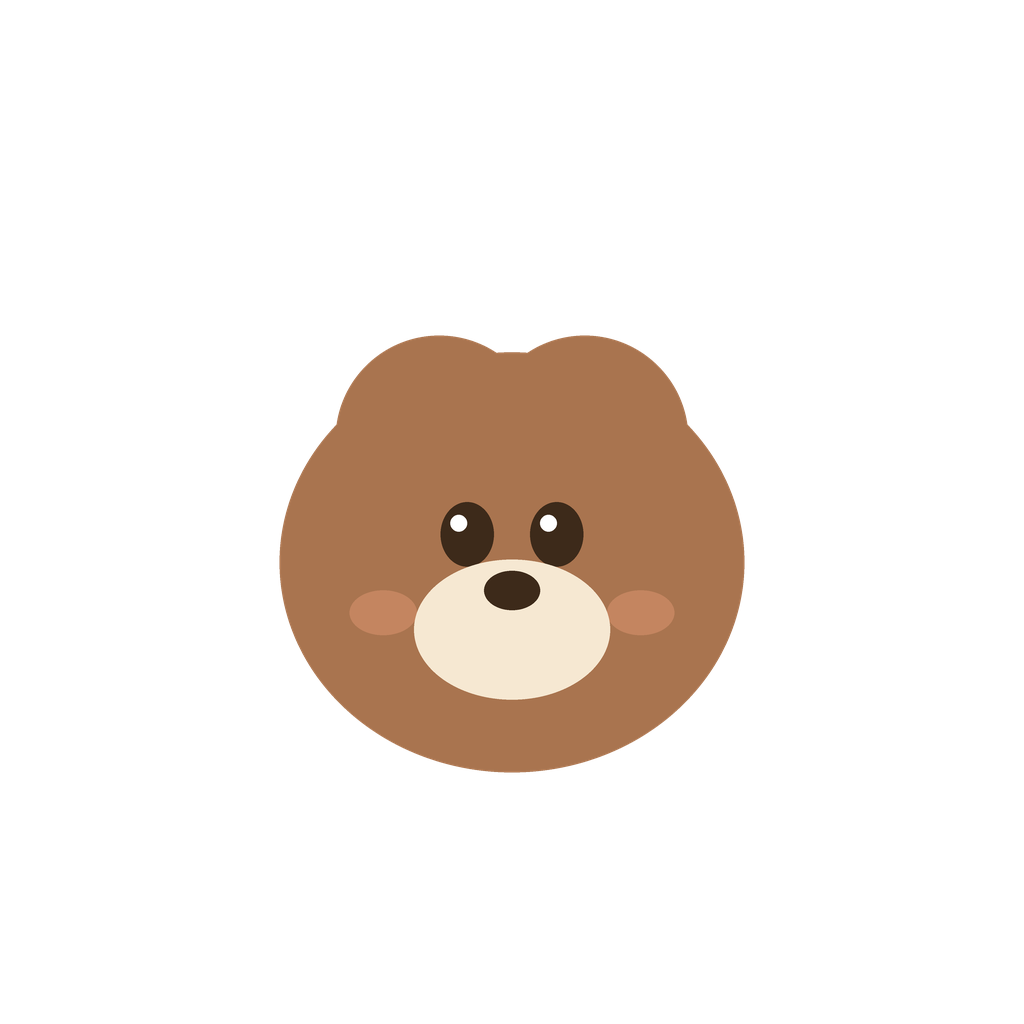
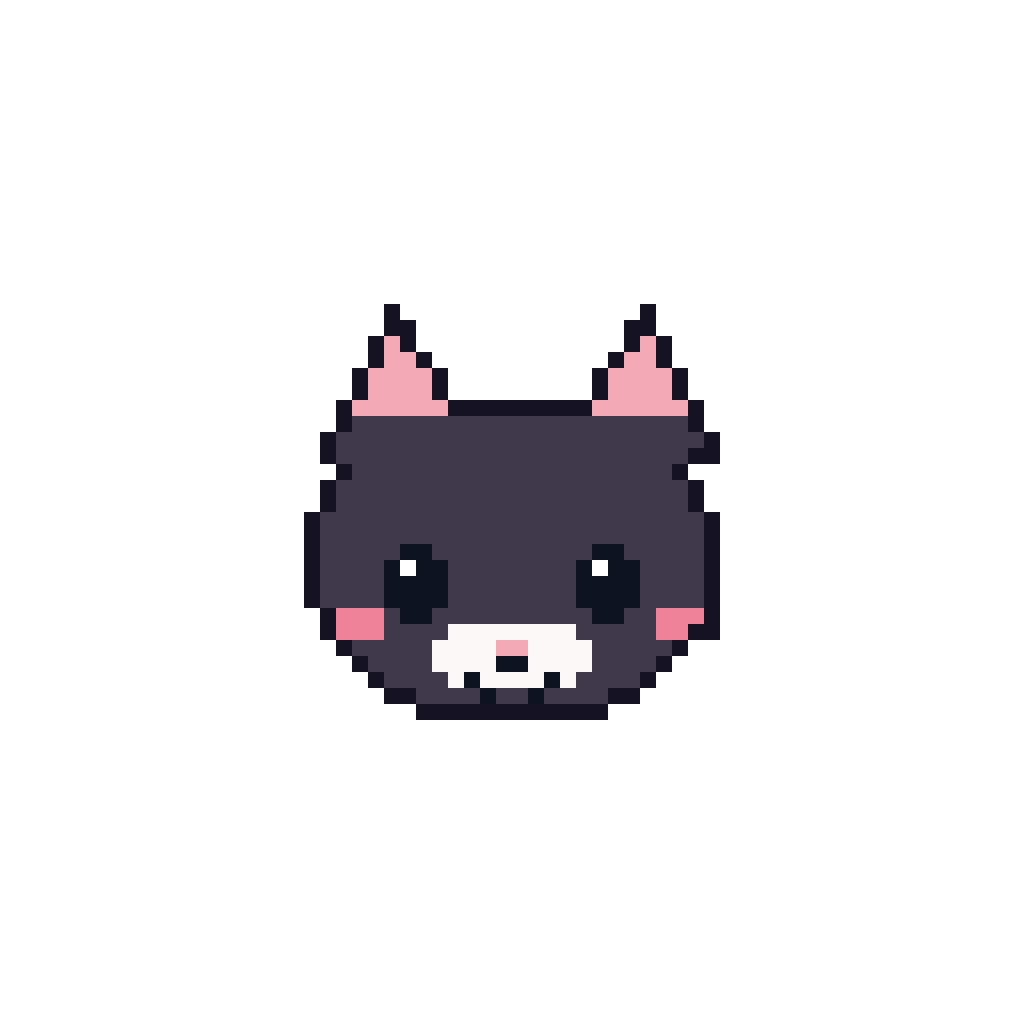
brand: el icono de la app y el splash dejan de ser el oso
Frank ve: el icono en la pantalla de inicio del móvil y la pantalla de arranque
son ya la gata. Hasta ahora seguían siendo el oso pardo, así que quien instalaba
la app veía un oso antes de abrirla y una gata al entrar.

Es un fallo mío de las entregas anteriores: dije "el oso desaparece" cuando lo
había sustituido en las PANTALLAS, pero assets/icon.png, adaptive-icon.png y
splash.png son PNG y ahí seguía. La migración de la mascota no estaba completa.

Los tres se generan ahora desde la misma rejilla de píxeles que usa la app
(scripts/build-brand-assets.js, npm run build:brand). Si mañana cambia el
sprite, se vuelve a correr y los tres salen iguales: nadie tiene que redibujar
ni acordarse de exportar a mano. Comprobado que es reproducible.

El lado del píxel es entero en los tres (20, 16 y 12 px) en vez de "que ocupe
el 62 %": 1024/32 y 1242/32 caen en fracción, y con un lado fraccionario el
antialias parte las filas del dibujo.

El icono adaptativo de Android va a 512 px dentro del lienzo de 1024 porque el
sistema recorta a círculo o squircle y el 66 % central es lo único seguro; a
tamaño completo el recorte le comía las orejas.

PENDIENTE Y NO LO PUEDO HACER YO: el icono de la FICHA de Play Console se sube
aparte y no viaja en el APK. Mientras no se cambie allí, la ficha de la tienda
seguirá enseñando el oso.

Claude-Session: https://claude.ai/code/session_01FthPU8Wp2kPNFVmDMNYEBd

Changed region(s): [[0.25, 0.2812, 0.75, 0.7812]]

diff --git a/scripts/build-brand-assets.js b/scripts/build-brand-assets.js
@@ -1,0 +1,108 @@
+// ============================================================================
+// Valeria+ · Genera icono, icono adaptativo y splash desde la rejilla de Lúa
+//
+// Los tres PNG de marca salen de la MISMA rejilla que usa la app
+// (src/ValeriaCatPixel.tsx). Si mañana cambia el sprite de la mascota se vuelve
+// a correr esto y los tres quedan iguales; nadie tiene que redibujar nada ni
+// acordarse de exportar a mano.
+//
+//   OUT_DIR=assets CHROMIUM_PATH=/ruta/al/chrome node scripts/build-brand-assets.js
+//
+// Por qué el tamaño del píxel es entero en los tres: 1024/32 y 1242/32 caen en
+// fracción, y con un lado fraccionario el antialias parte las filas del dibujo.
+// De ahí los 20, 16 y 12 px por píxel en vez de "que ocupe el 62 %".
+//
+// OJO: el icono de la FICHA DE PLAY CONSOLE se sube aparte y no viaja en el
+// APK. Cambiar esto no lo cambia allí.
+// ============================================================================
+const fs = require('fs');
+const path = require('path');
+const { chromium } = require('playwright');
+
+const SRC = path.join(__dirname, '..', 'src', 'ValeriaCatPixel.tsx');
+const OUT = process.env.OUT_DIR || path.join(__dirname, '..', 'assets');
+fs.mkdirSync(OUT, { recursive: true });
+
+const src = fs.readFileSync(SRC, 'utf8');
+const grab = (name) => {
+  const i = src.indexOf(`const ${name}: PixelMap = [`);
+  const j = src.indexOf('];', i);
+  return [...src.slice(i, j).matchAll(/'([.a-z]+)'/g)].map((m) => m[1]);
+};
+const HEAD = grab('HEAD');
+const SIT = grab('SIT');
+const PAL = Object.fromEntries(
+  [...src.slice(src.indexOf('CAT_TUXEDO: CatPalette = {'), src.indexOf('};', src.indexOf('CAT_TUXEDO')))
+    .matchAll(/(\w): '(#[0-9a-fA-F]+)'/g)].map((m) => [m[1], m[2]]),
+);
+
+const svg = (map, cell) => {
+  const W = map[0].length, H = map.length;
+  let r = '';
+  map.forEach((row, y) => {
+    let x = 0;
+    while (x < row.length) {
+      const c = row[x];
+      if (c === '.') { x++; continue; }
+      let w = 1;
+      while (x + w < row.length && row[x + w] === c) w++;
+      r += `<rect x="${x * cell}" y="${y * cell}" width="${w * cell}" height="${cell}" fill="${PAL[c]}"/>`;
+      x += w;
+    }
+  });
+  return { markup: r, w: W * cell, h: H * cell };
+};
+
+const page = (body, w, h) => `<!doctype html><html><body style="margin:0;width:${w}px;height:${h}px;overflow:hidden">${body}</body></html>`;
+
+// --- 1. Icono de la app (1024×1024) ---------------------------------------
+const iconCell = 20;                 // 32 columnas × 20 = 640 px de gata
+const icon = svg(HEAD, iconCell);
+const iconHtml = page(`
+  <div style="position:relative;width:1024px;height:1024px;
+       background:linear-gradient(150deg,#16d3cc 0%,#00c4be 55%,#00a8a2 100%)">
+    <div style="position:absolute;left:-140px;top:-220px;width:760px;height:760px;
+         border-radius:50%;background:rgba(255,255,255,.14)"></div>
+    <svg width="${icon.w}" height="${icon.h}" style="position:absolute;
+         left:${Math.round((1024 - icon.w) / 2)}px;top:${Math.round((1024 - icon.h) / 2)}px">${icon.markup}</svg>
+  </div>`, 1024, 1024);
+
+// --- 2. Icono adaptativo de Android (1024×1024, primer plano) --------------
+// Android recorta a un círculo/squircle: la mascota tiene que caber en el 66 %
+// central o el recorte le come las orejas.
+const adaptCell = 16;                // 32 × 16 = 512 px, dentro de los 676 seguros
+const adapt = svg(HEAD, adaptCell);
+const adaptHtml = page(`
+  <div style="position:relative;width:1024px;height:1024px">
+    <svg width="${adapt.w}" height="${adapt.h}" style="position:absolute;
+         left:${Math.round((1024 - adapt.w) / 2)}px;top:${Math.round((1024 - adapt.h) / 2)}px">${adapt.markup}</svg>
+  </div>`, 1024, 1024);
+
+// --- 3. Splash (1242×2688) -------------------------------------------------
+const splashCell = 12;               // 32 × 12 = 384 px
+const splash = svg(SIT, splashCell);
+const splashHtml = page(`
+  <div style="width:1242px;height:2688px;background:#00c4be;display:flex;
+       flex-direction:column;align-items:center;justify-content:center;
+       font-family:system-ui,-apple-system,'Segoe UI',Roboto,sans-serif">
+    <svg width="${splash.w}" height="${splash.h}">${splash.markup}</svg>
+    <div style="color:#fff;font-size:118px;font-weight:800;letter-spacing:-2px;margin-top:54px">valeria+</div>
+    <div style="color:rgba(255,255,255,.92);font-size:46px;font-weight:700;margin-top:18px">
+      Terapia auditiva y de lenguaje</div>
+  </div>`, 1242, 2688);
+
+(async () => {
+  const b = await chromium.launch({ executablePath: process.env.CHROMIUM_PATH });
+  const shoot = async (html, w, h, file, transparent) => {
+    const p = await b.newPage({ viewport: { width: w, height: h } });
+    await p.goto('data:text/html;charset=utf-8,' + encodeURIComponent(html));
+    await p.waitForTimeout(200);
+    await p.screenshot({ path: path.join(OUT, file), omitBackground: !!transparent });
+    await p.close();
+  };
+  await shoot(iconHtml, 1024, 1024, 'icon.png');
+  await shoot(adaptHtml, 1024, 1024, 'adaptive-icon.png', true);
+  await shoot(splashHtml, 1242, 2688, 'splash.png');
+  await b.close();
+  console.log('generados en', OUT, '· head', HEAD[0].length + 'x' + HEAD.length, '· paleta', Object.keys(PAL).join(''));
+})();
